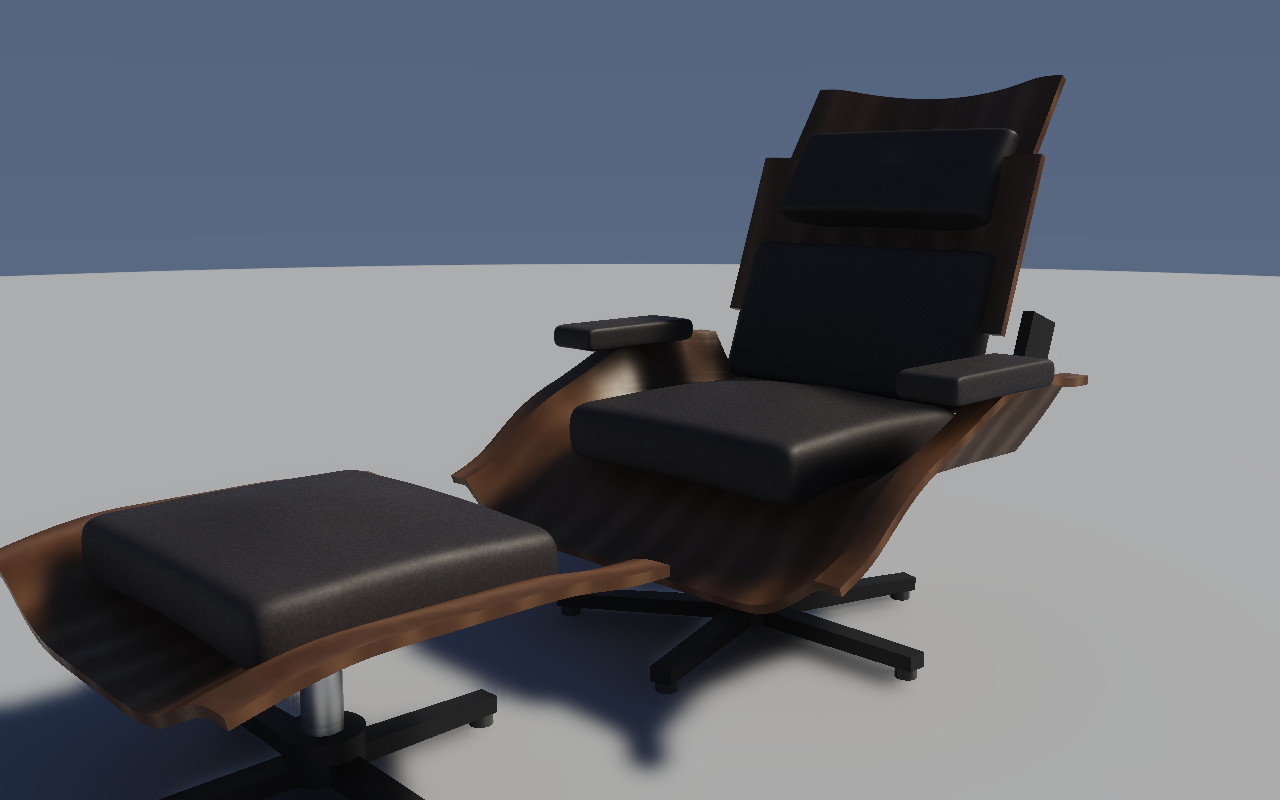
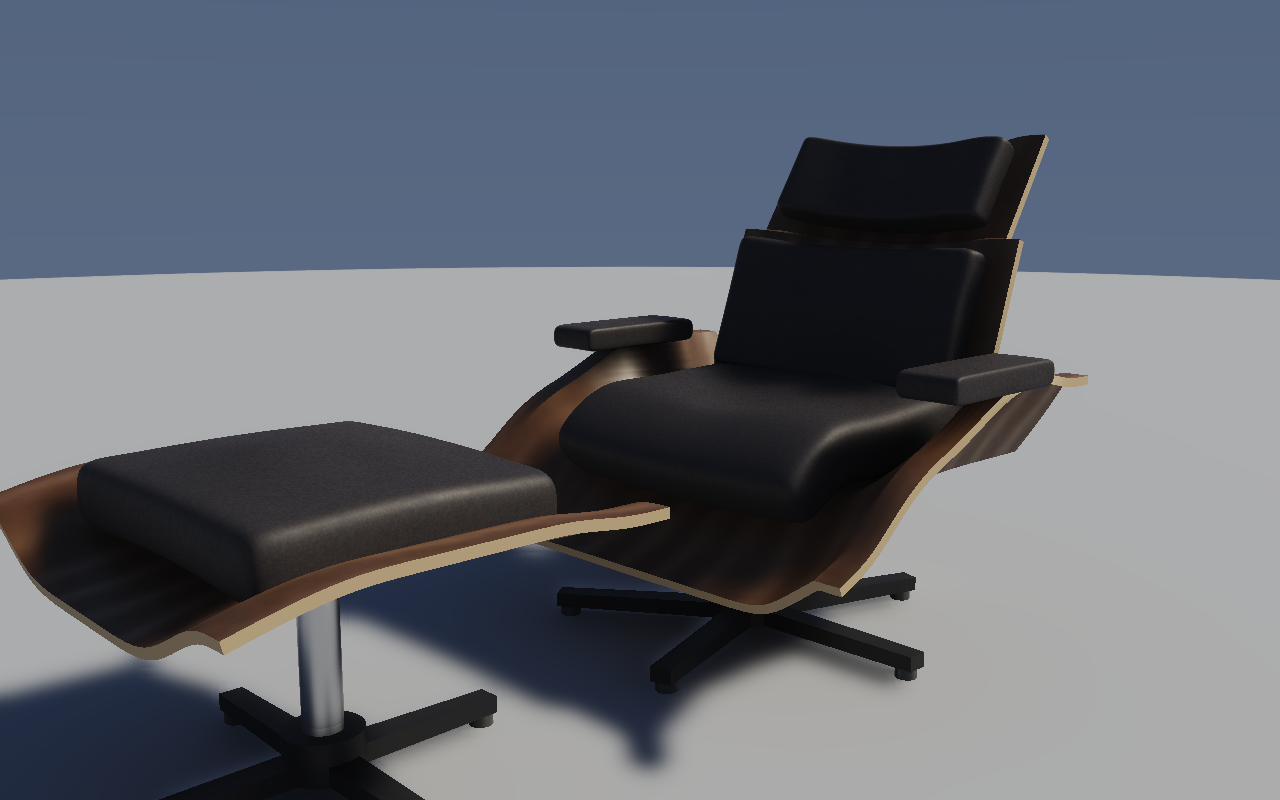
textures: a leather recipe, a veneer, and a cache that notices edits
The map library is gitignored and regenerated on demand, so "the file exists"
was the whole cache key -- and editing a recipe then left the OLD map on disk,
silently. Changing the leather from 0.16 to 0.045 albedo and seeing no
difference in the render is a genuinely baffling half hour: the code reads
right, the picture stays wrong, and nothing anywhere says why. ensure_textures
now stores a digest of the recipe beside the maps -- the thunk's own constants
plus the bytecode of every generator it could call -- so editing _leather()
alone still invalidates. Verified: generate 1.95s, cached 0.00s, regen after an
edit 1.46s.

New in the library, both for the Eames chair:

_veneer -- continuous figured grain with no plank seams. _wood lays down planks
and seam grooves, which is right for a floor and reads as tiger stripes on a
moulded shell. A low-frequency figure term drifts the grain spacing so walnut
reads as walnut rather than as a sine wave, and its tonal range is narrow: the
grain is a whisper, and a wide spread paints stripes however good the normal map.

_leather -- a pebbled grain divided by a crease network, at 0.045 albedo. The
creases come from ridged noise (1 - |2n-1|), whose valleys form the connected
network a Voronoi would give without needing one; they sit lower, take a rougher
sheen and catch less light, which is the whole difference between leather and
dark plastic. Real black leather is almost black and shows its grain through the
[…]

diff --git a/tests/test_textures.py b/tests/test_textures.py
@@ -1,0 +1,73 @@
+"""The procedural PBR map library — generation, and the cache that serves it.
+
+The maps are gitignored and regenerated on demand, so the on-disk cache is load-bearing:
+if it goes stale, a recipe edit has no visible effect and the only symptom is a render that
+stubbornly looks wrong while the code reads right.
+"""
+import pytest
+
+from mirage import textures as T
+
+
+def test_library_generates_three_maps(tmp_path):
+    p = T.generate("leather", tmp_path)
+    assert set(p) == {"albedo", "rough", "normal"}
+    for f in p.values():
+        assert f.exists() and f.stat().st_size > 0
+    # albedo/normal are P6 rgb, roughness is P5 gray — the reader in raytrace.cpp takes both
+    assert p["albedo"].read_bytes()[:2] == b"P6"
+    assert p["normal"].read_bytes()[:2] == b"P6"
+    assert p["rough"].read_bytes()[:2] == b"P5"
+
+
+def test_generation_is_deterministic(tmp_path):
+    a = T.generate("wood_veneer", tmp_path / "a")["albedo"].read_bytes()
+    b = T.generate("wood_veneer", tmp_path / "b")["albedo"].read_bytes()
+    assert a == b, "seeded generation must be reproducible"
+
+
+def test_maps_tile_seamlessly(tmp_path):
+    # Sampled triplanar with no UVs, so every map repeats across a surface: if the first
+    # column doesn't meet the last, the seam shows up as a grid over the whole model.
+    import numpy as np
+    from PIL import Image
+    for name in ("leather", "wood_veneer"):
+        a = np.asarray(Image.open(T.generate(name, tmp_path / name)["albedo"]), float)
+        wrap = np.abs(a[:, 0] - a[:, -1]).mean()
+        inner = np.abs(a[:, 0] - a[:, a.shape[1] // 2]).mean()
+        assert wrap < inner, f"{name} does not tile: its edges differ more than unrelated columns"
+
+
+def test_ensure_textures_caches(tmp_path):
+    first = T.ensure_textures(["plaster"], tmp_path)["plaster"]
+    mtimes = {k: v.stat().st_mtime_ns for k, v in first.items()}
+    again = T.ensure_textures(["plaster"], tmp_path)["plaster"]
+    assert {k: v.stat().st_mtime_ns for k, v in again.items()} == mtimes, "should not regenerate"
+
+
+def test_ensure_textures_regenerates_when_the_recipe_changes(tmp_path):
+    """The bug this guards: 'the file exists' was the whole cache key, so editing a recipe
+    left the old map on disk and the render silently kept using it."""
+    T.ensure_textures(["leather"], tmp_path)
+    before = (tmp_path / "leather_albedo.ppm").read_bytes()
+    stamp = (tmp_path / "leather.recipe").read_text()
+
+    real = T._LIBRARY["leather"]
+    try:
+        T._LIBRARY["leather"] = lambda: T._leather(T.RES, 59, (0.9, 0.1, 0.1))  # a real edit
+        assert T._recipe_id("leather") != stamp, "the digest must notice a constant changing"
+        T.ensure_textures(["leather"], tmp_path)
+        assert (tmp_path / "leather_albedo.ppm").read_bytes() != before, "served a stale map"
+        assert (tmp_path / "leather.recipe").read_text() != stamp
+    finally:
+        T._LIBRARY["leather"] = real
+
+
+def test_recipe_id_is_stable_across_calls():
+    assert T._recipe_id("leather") == T._recipe_id("leather")
+    assert T._recipe_id("leather") != T._recipe_id("wood_veneer")
+
+
+def test_unknown_texture_raises():
+    with pytest.raises(KeyError):
+        T.generate("no_such_material")

diff --git a/src/mirage/textures.py b/src/mirage/textures.py
@@ -17,6 +17,7 @@ Needs numpy + Pillow.
 """
 from __future__ import annotations
 
+import hashlib
 import struct
 from pathlib import Path
 
@@ -252,13 +253,40 @@ def generate(name: str, tex_dir: Path = TEX_DIR) -> dict:
     return p
 
 
+def _recipe_id(name: str) -> str:
+    """A short digest of the recipe that produced a map set — the generator's own bytecode
+    plus this entry's constants. Changes iff the recipe changes."""
+    fn = _LIBRARY[name]
+    parts = [name, str(RES)]
+    # the thunk's captured constants (colours, seeds, plank counts...)
+    parts += [repr(c) for c in (fn.__code__.co_consts or ()) if c is not None]
+    # and the generator it calls, so editing _leather() alone still invalidates
+    for gen in (_wood, _veneer, _fabric, _plaster, _leather, _marble, _normal_from_height, _fbm):
+        parts.append(gen.__name__)
+        parts.append(hashlib.sha1(gen.__code__.co_code).hexdigest()[:8])
+    return hashlib.sha1("|".join(parts).encode()).hexdigest()[:16]
+
+
 def ensure_textures(names, tex_dir: Path = TEX_DIR) -> dict:
-    """Generate any of `names` whose maps are missing; return {name: {map: path}}."""
+    """Generate any of `names` whose maps are missing OR STALE; return {name: {map: path}}.
+
+    Staleness matters more than it sounds. These maps are gitignored and regenerated on
+    demand, so "the file exists" was the only cache key — and editing a recipe then left the
+    OLD map on disk, silently. Changing the leather from 0.16 to 0.045 albedo and seeing no
+    difference in the render is a genuinely baffling half hour: the code is right, the
+    picture is wrong, and nothing anywhere says why. The recipe's digest is stored beside
+    the maps, so a recipe edit regenerates them.
+    """
     out = {}
     for name in names:
         p = _paths(name, tex_dir)
-        if not all(f.exists() for f in p.values()):
+        stamp = tex_dir / f"{name}.recipe"
+        want = _recipe_id(name)
+        fresh = (all(f.exists() for f in p.values())
+                 and stamp.exists() and stamp.read_text().strip() == want)
+        if not fresh:
             p = generate(name, tex_dir)
+            stamp.write_text(want)
         out[name] = p
     return out
 

diff --git a/examples/cases/25_eames_lounge.py b/examples/cases/25_eames_lounge.py
@@ -512,9 +512,12 @@ def film():
     out = record_build(
         stages, "eames_lounge_build", out_dir=OUT, captions=captions,
         size=(1280, 720), fps=24, per=16, hold=40,
-        # a slow dolly around the front quarter, settling on the hero angle
-        keyframes=[(0.0, 2.05, 0.30, 2.45), (0.55, 2.55, 0.34, 2.20),
-                   (0.82, 2.30, 0.30, 1.95), (1.0, 2.30, 0.30, 1.95)],
+        # A slow dolly across the OPEN FRONT, settling on the hero angle. The orbit puts the
+        # eye at (cx + d*cos(p)*sin(yaw), cy - d*cos(p)*cos(yaw), ...) — note the MINUS on y.
+        # So yaw 0 faces the chair head-on and the front quarter is yaw in (0, pi/2);
+        # yaw ~2.3 shoots its back. Solving that for the hero eye gives yaw 0.81.
+        keyframes=[(0.0, 1.40, 0.36, 2.60), (0.5, 0.42, 0.28, 2.25),
+                   (0.82, 0.82, 0.22, 2.05), (1.0, 0.82, 0.22, 2.05)],
         smooth=True,            # the viewport shades smooth too — no facets during the build
         automode=True,          # AI-driving-the-editor framing: panel hidden, HUD names the op
         trace_hold=True,        # the clip ENDS on a path-traced beauty frame